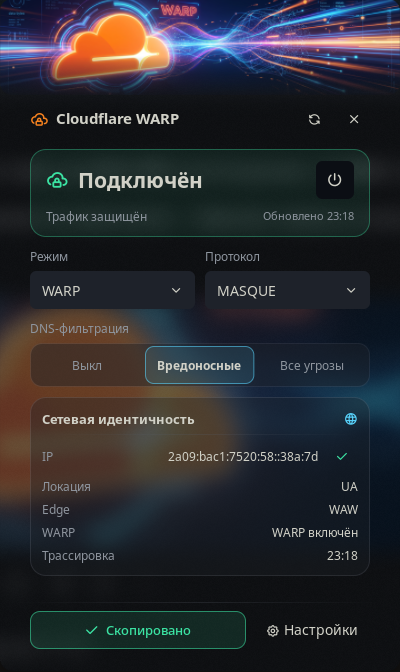
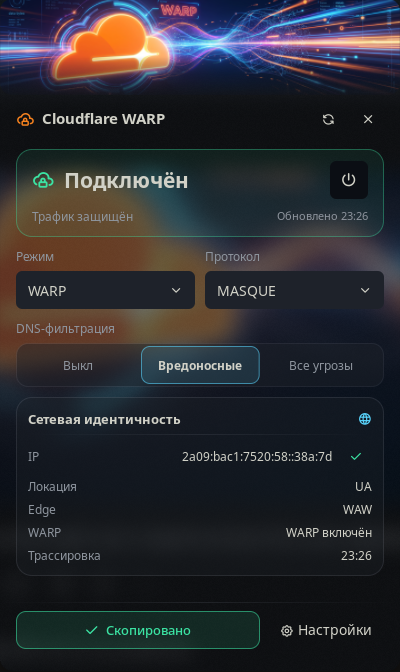
fix(panel): reduce side gutters from 30 to 16 px
The host adds a fixed 14 px inset and the panel added another 16 px, so the
cards were only 340 px wide. The root now cancels the horizontal inset, the
inner 16 px stays as the only side gutter, and the banner keeps its full-bleed
top edge. Vertical rhythm is unchanged; screenshots and docs regenerated.

Phase: 3

diff --git a/docs/DESIGN-PANEL.md b/docs/DESIGN-PANEL.md
@@ -1,7 +1,8 @@
 # DESIGN — панель Cloudflare WARP
 
-**Статус:** `0.4.1` (PATCH, Phase 3). Панель переработана во вторую версию и прошла
-fix round владельца; контракт `warp.status` / `warp.command` и IPC не менялись.
+**Статус:** `0.4.2` (PATCH, Phase 3). Панель переработана во вторую версию, прошла
+fix round владельца и получила уменьшенные боковые поля; контракт
+`warp.status` / `warp.command` и IPC не менялись.
 **Источник истины:** [`cloudflare-warp/panel.luau`](../cloudflare-warp/panel.luau),
 [`specs/phase-3-panel-redesign.md`](../specs/phase-3-panel-redesign.md).
 
@@ -29,8 +30,8 @@ fix round владельца; контракт `warp.status` / `warp.command` и
 ## Карта компоновки
 
 ```
-root column (gap=0, padding=0, align=stretch, flexGrow=1)
-├─ banner-wrap column (height=82, padding=-14 со всех сторон)
+root column (gap=0, paddingH=-14, paddingV=0, align=stretch, flexGrow=1)
+├─ banner-wrap column (height=82, paddingV=-14)
 │   └─ ui.image 400×96, fit=cover, radius=12, opacity по фазе × entrance
 ├─ header row (paddingH=16, paddingV=8, gap=8)
 │   ├─ glyph cloud-lock 18, brand-orange
@@ -60,10 +61,12 @@ root column (gap=0, padding=0, align=stretch, flexGrow=1)
 присутствует. Высота 672 подобрана под самый высокий штатный набор, а `flexGrow=1`
 у content-body прижимает footer к низу, когда остаётся запас.
 
-Баннер выходит за поля хоста: wrapper высотой 82 px получает `padding = -14`, поэтому
-изображение 400×96 начинается в точке (0,0) панели и заканчивается ровно на нижней
-границе wrapper. Радиус изображения 12 совпадает с радиусом панели; нижний alpha-fade
-зашит в PNG. Версия `warp-cli` в панели не показывается, дублирующей кнопки закрытия нет.
+Баннер выходит за поля хоста: root отменяет горизонтальный inset хоста
+(`paddingH = -14`), поэтому единственный боковой отступ — внутренние 16 px, а карточки
+занимают 368 px из 400. Wrapper высотой 82 px получает `paddingV = -14`; изображение
+400×96 начинается в точке (0,0) панели и заканчивается ровно на нижней границе wrapper.
+Радиус изображения 12 совпадает с радиусом панели; нижний alpha-fade зашит в PNG.
+Версия `warp-cli` в панели не показывается, дублирующей кнопки закрытия нет.
 
 ## Фазы и акценты
 
@@ -148,6 +151,8 @@ Hero-акцент интерполируется между фазами, поэ
 | Captions, updated, trace | 11 |
 | Footer feedback text | 13 |
 | Glyphs | 18 header, 22 hero, 14 secondary |
+| Side gutters | 16 (root cancels the host's 14 px horizontal inset) |
+| Card / control width | 368 inside the 400 px panel |
 | Header padding | 16 по горизонтали, 8 по вертикали |
 | Content padding | 16 по горизонтали, 6 по вертикали, gap 10 |
 | Hero padding | 16 / 12 |
@@ -191,7 +196,9 @@ Hero-акцент интерполируется между фазами, поэ
   `[plugin_settings] panel_placement` может переопределить placement на лету; на
   dev-машине панель открывается как `attached`.
 - **Padding.** Хост добавляет `Style::panelPadding = 14` со всех сторон. Отрицательный
-  padding не клампится и позволяет баннеру выйти на край панели.
+  padding не клампится: root отменяет горизонтальный inset (`paddingH = -14`), а
+  banner-wrapper — вертикальный сверху (`paddingV = -14`), поэтому баннер выходит на
+  край панели, а боковой отступ равен 16 px.
 - **Scrollbar.** Хост рисует полосу прокрутки всегда, когда присутствует `ui.scroll`,
   даже если контент помещается; поэтому панель от scroll-контейнера отказалась.
 - **Frame ticks.** `panel.setNeedsFrameTick(true)` запрашивает кадры, `onFrameTick`

diff --git a/STATE.md b/STATE.md
@@ -10,13 +10,13 @@
 
 | Поле | Значение |
 |------|----------|
-| **Plugin version** | `0.4.1` (tag `v0.4.1`, merge `cb14a14`) |
-| **Roadmap phase** | Phase 3 — Panel **done** (0.4.0 + redesign v2 0.4.1 + owner fix round) |
-| **Branch** | `main` |
+| **Plugin version** | `0.4.2` (fix prepared on `fix/panel-padding`; tag pending) |
+| **Roadmap phase** | Phase 3 — Panel **done** (0.4.0 + redesign v2 0.4.1 + padding 0.4.2) |
+| **Branch** | `fix/panel-padding` |
 | **Remote** | https://github.com/code-warlord-dev/cloudflare-warp-plugin |
 | **Last merge** | `cb14a14` Merge PR #5 — panel fix round v0.4.1 (origin/main) |
-| **Blockers** | none — K-11 resolved: `plugins list` shows `code-warlord/cloudflare-warp [warpdev] 0.4.1` |
-| **Next action** | Phase 4 — Polish & i18n (v0.5.0) |
+| **Blockers** | none |
+| **Next action** | push branch + PR; merge + tag `v0.4.2`; then Phase 4 |
 
 ---
 
@@ -48,6 +48,10 @@
 | reviewer | Self-review fix round: no state/CLI/network writes, plugin_api 24, no fixture, i18n parity | done | APPROVE; lint 0/0; en/ru 98/98 |
 | qa | Live QA fix round: connected + fixture states, animations, no scrollbar/clipping at 400×672 | done | PASS; QA fixture removed before commit |
 | orchestrator | Docs update fix round + release 0.4.1 | done | PR #5 merged `cb14a14`; tag `v0.4.1` pushed |
+| implementer | Owner padding fix: side gutters 30 → 16 px (root `paddingH = -14`, cards 368 px); vertical rhythm unchanged | done | `fix/panel-padding` |
+| reviewer | Self-review: panel still renderer-only, host-inset math verified live, no QA hooks left | done | APPROVE; lint 0/0 |
+| qa | Live QA: 400×672, 16 px gutters, no clipping/scrollbar; 8 screenshots refreshed | done | PASS; fixture removed before commit |
+| orchestrator | Docs update padding fix + release 0.4.2 | in progress | CHANGELOG/STATE/DESIGN/SPEC/README/spec; push, PR, merge, tag `v0.4.2` |
 
 ---
 
@@ -82,6 +86,8 @@
 - [x] Owner fix round 0.4.1: убран `ui.scroll` и scrollbar, высота по контенту 400×672, full-bleed banner через отрицательный padding, hero 21 px, Families всегда с выбранным Malware, анимации (вход, акцент/баннер, progress, refresh pulse, hover), ширина 400
 - [x] QA fix round: connected + fixture-состояния, анимация connecting, отсутствие scrollbar и обрезания; временная фикстура удалена из `service.luau` до коммита
 - [x] Release 0.4.1: PR #5 merged в `main` (`cb14a14`), tag `v0.4.1` создан и запушен; 8 скриншотов обновлены под 400×672
+- [x] Padding fix 0.4.2: root отменяет горизонтальный host-inset (`paddingH = -14`) → боковые поля 16 px, карточки 368 px; вертикальный ритм не изменён
+- [x] Padding QA: live connected + fixture-состояния, отсутствие clipping/scrollbar на 400×672; 8 скриншотов пересняты, фикстура удалена до коммита
 
 
 ---
@@ -138,6 +144,7 @@
 | 2026-10-20 | Families segments всегда передают fill/border, unselected — `#00000000` | reconciler сохраняет отсутствующие flex-стили → stale cyan |
 | 2026-10-20 | Banner: color/idle PNG с запечённым нижним alpha-fade | у declarative UI нет gradient/overlay primitive |
 | 2026-10-20 | Состояния для скриншотов — временные фикстуры, реальный WARP не мутируется | QA safety: connect/disconnect/set-* не трогали |
+| 2026-10-20 | Боковые поля панели 16 px: root `paddingH = -14` отменяет host-inset | owner: общий padding был слишком большим; 30 px → 16 px, карточки 340 → 368 px; вертикаль без изменений |
 
 ---
 

diff --git a/specs/phase-3-panel-redesign.md b/specs/phase-3-panel-redesign.md
@@ -60,10 +60,11 @@ magick /tmp/hero-idle-base.png /tmp/hero-mask.png -alpha off -compose CopyOpacit
 - Connecting/disconnecting — color asset с `opacity = 0.65`.
 - Исходный JPEG оставить в репозитории (README/соцсети), PNG — UI.
 
-Banner в панели: wrapper-колонка `height = 82` с `padding = -14` со всех сторон и
+Banner в панели: root отменяет горизонтальный host-inset (`paddingH = -14`), а
+banner-wrapper-колонка `height = 82` получает `paddingV = -14` и содержит
 `ui.image({ path = ..., width = 400, height = 96, radius = 12, fit = "cover",
-opacity = <по фазе × entrance> })`. Отрицательный padding компенсирует host-inset
-14 px, поэтому изображение начинается в точке (0,0) панели; нижний fade — из PNG.
+opacity = <по фазе × entrance> })`. Изображение начинается в точке (0,0) панели,
+боковой отступ равен 16 px; нижний fade — из PNG.
 
 ---
 
@@ -75,11 +76,12 @@ Manifest: `width = 400`, `height = 672`, `placement = "floating"`, `position = "
 
 > Решения после live-прогона и fix round владельца: 400×672 вместо 360×700; scroll
 > убран полностью; version caption убран; power — `md`; hero status 21 px, чтобы
-> «Подключение…» помещалось; ошибка свёрнута в subtitle; footer прижат `flexGrow`.
+> «Подключение…» помещалось; ошибка свёрнута в subtitle; footer прижат `flexGrow`;
+> боковые поля 16 px — root отменяет host-inset 14 px (`paddingH = -14`).
 
 ```
-root column (gap=0, padding=0, align="stretch", flexGrow=1)
-├─ banner-wrap column (height=82, padding=-14)
+root column (gap=0, paddingH=-14, paddingV=0, align="stretch", flexGrow=1)
+├─ banner-wrap column (height=82, paddingV=-14)
 │   └─ ui.image (400×96, radius=12)
 ├─ header row (paddingH=16, paddingV=8, align=center, gap=8)
 │   ├─ glyph cloud-lock 18 brand-orange

diff --git a/ROADMAP.md b/ROADMAP.md
@@ -2,7 +2,7 @@
 
 Статус: **Active**
 
-Текущая версия: `0.4.1` (Phase 3, panel redesign v2)
+Текущая версия: `0.4.2` (Phase 3, panel redesign v2)
 
 Целевая первая публичная: `1.0.0`
 
@@ -67,7 +67,7 @@
 
 ---
 
-## Phase 3 — Panel (v0.4.0 → v0.4.1)
+## Phase 3 — Panel (v0.4.0 → v0.4.2)
 
 **Цель:** полноценный UI управления.
 
@@ -79,11 +79,12 @@
 - [x] Floating, 400×672, без scroll-контейнера
 - [x] Panel redesign v2: phase banner, status-first hero + power, Mode/Protocol в две колонки, segmented Families, identity card, Copy IP/Settings footer, honest unknown
 - [x] Owner fix round: full-bleed banner, hero 21 px, Families = Malware default, анимации входа/акцента/progress/refresh/hover, ширина 400
+- [x] Side gutters 16 px: root отменяет host-inset 14 px, карточки 368 px (0.4.2)
 - [x] Live QA connected/disconnected/connecting + 8 screenshots + `docs/DESIGN-PANEL.md`
 
 **DoD:** из панели можно сменить mode/families/protocol и увидеть IP; визуальные состояния подтверждены live.
 
-**Bump:** `0.4.0` (MINOR) + `0.4.1` (PATCH — redesign v2 + owner fix round; структура state/IPC не менялись)
+**Bump:** `0.4.0` (MINOR) + `0.4.1`/`0.4.2` (PATCH — redesign v2, owner fix round и боковые поля; структура state/IPC не менялись)
 
 ---
 

diff --git a/docs/API-NOTES.md b/docs/API-NOTES.md
@@ -326,8 +326,9 @@ noctalia msg plugins source remove warpdev
   или `"fill"`; auto/content-height и runtime `setSize` отсутствуют. Хост добавляет
   `Style::panelPadding = 14` со всех сторон и не даёт его отключить.
 - **Отрицательный padding работает.** `Flex::setPadding` присваивает значение напрямую,
-  layout использует отрицательные инсеты; wrapper с `padding = -14` позволяет баннеру
-  выйти на край панели (проверено live 0.4.1).
+  layout использует отрицательные инсеты; root с `paddingH = -14` отменяет боковой
+  host-inset, а wrapper с `paddingV = -14` позволяет баннеру выйти на верхний край
+  панели (проверено live 0.4.1, повторно 0.4.2).
 - **Frame ticks.** `panel.setNeedsFrameTick(true)` запрашивает кадры; глобальный
   `onFrameTick(deltaMs)` вызывается, пока флаг включён; кадры коалесцируются, тики
   прекращаются при закрытии панели. В idle флаг нужно выключать вручную.

diff --git a/README.md b/README.md
@@ -15,7 +15,7 @@ Runtime-плагин живёт в подкаталоге [`cloudflare-warp/`](.
 | [STATE.md](./STATE.md) | Живой статус (читать первым) |
 | [AGENTS.md](./AGENTS.md) | Оркестратор и субагенты |
 | [docs/API-NOTES.md](./docs/API-NOTES.md) | Проверенные факты о Noctalia 5.3.0 / warp-cli / `plugins lint` |
-| [docs/DESIGN-PANEL.md](./docs/DESIGN-PANEL.md) | Визуальная система и правила панели (0.4.1) |
+| [docs/DESIGN-PANEL.md](./docs/DESIGN-PANEL.md) | Визуальная система и правила панели (0.4.2) |
 | [specs/](./specs/) | Executable specs по фазам |
 | [.agents/skills/](./.agents/skills/) | Skills для агентов |
 | [templates/](./templates/) | Commit / PR / Push |
@@ -42,7 +42,7 @@ Runtime-плагин живёт в подкаталоге [`cloudflare-warp/`](.
 
 ## Статус
 
-См. [STATE.md](./STATE.md). Сейчас: **0.4.1**, Phase 3 завершена — сервис, bar widget,
+См. [STATE.md](./STATE.md). Сейчас: **0.4.2**, Phase 3 завершена — сервис, bar widget,
 Control Center shortcut и панель работают. Следующая — Phase 4 (polish, full i18n,
 error UX, README).
 

diff --git a/docs/SPEC.md b/docs/SPEC.md
@@ -475,7 +475,7 @@ barWidget.setVisible(true)
 
 ```
 ui.column
-  ├─ banner-wrap (padding = -14) → image 400×96 (phase asset, bottom alpha fade)
+  ├─ banner-wrap (paddingV = -14) → image 400×96 (phase asset, bottom alpha fade)
   ├─ header: cloud glyph, title, Refresh, Close
   ├─ content-body (flexGrow=1, без ui.scroll)
   │   ├─ hero: status + subtitle + «Обновлено HH:MM» + power (+ progress в transition)
@@ -505,6 +505,10 @@ ui.column
 - Размер: `width = 400`, `height = 672` (host-owned, задаётся в манифесте; изменения
   применяются после disable/enable плагина). Scroll-контейнер не используется: хост
   рисует scrollbar всегда, поэтому высота подобрана под штатные состояния.
+- Отступы: root отменяет горизонтальный host-inset (`paddingH = -14`), поэтому
+  единственный боковой отступ — внутренние 16 px, а карточки занимают 368 px.
+  Banner-wrapper отменяет только верхний inset (`paddingV = -14`); вертикальный
+  ритм контента не меняется.
 
 ---
 

diff --git a/cloudflare-warp/README.md b/cloudflare-warp/README.md
@@ -77,9 +77,10 @@ the height is tuned to the tallest regular state and the footer is anchored
 with `flexGrow`. Layout, top to bottom:
 
 - **Banner** — full-bleed 400×96 phase image with a bottom alpha fade; the
-  wrapper cancels the host's 14 px inset with negative padding and the image
-  radius matches the panel. Full colour for connected, colour at 0.65 opacity
-  while connecting/disconnecting, and a dimmed idle image for
+  root cancels the host's 14 px horizontal inset so the only side gutter is
+  16 px (cards are 368 px wide), and the banner wrapper pulls the top inset;
+  the image radius matches the panel. Full colour for connected, colour at
+  0.65 opacity while connecting/disconnecting, and a dimmed idle image for
   disconnected/error/unregistered/unknown;
 - **Header** — cloud glyph, "Cloudflare WARP", Refresh (with a short loader)
   and Close; there is no duplicate close control;

diff --git a/VERSIONING.md b/VERSIONING.md
@@ -50,7 +50,8 @@ Pre-1.0 (`0.x.y`):
 | 0.2.0 | Phase 1 | Service core: poll, state, IPC toggle/connect | released |
 | 0.3.0 | Phase 2 | Bar widget + Control Center shortcut | released |
 | 0.4.0 | Phase 3 | Full panel UI | released |
-| 0.4.1 | Phase 3 | Panel redesign v2 (banner/hero/segmented/identity), no state/IPC change | current (branch, tag pending) |
+| 0.4.1 | Phase 3 | Panel redesign v2 (banner/hero/segmented/identity), no state/IPC change | released |
+| 0.4.2 | Phase 3 | Panel side gutters 30 → 16 px, no state/IPC change | current (branch, tag pending) |
 | 0.5.0 | Phase 4 | Polish, full i18n, error UX, README | planned |
 | 1.0.0 | Phase 5 | Public release / community-plugins | planned |
 | 1.x.y | Post-1.0 | Backlog features | backlog |

diff --git a/CHANGELOG.md b/CHANGELOG.md
@@ -7,6 +7,16 @@ Versioning follows [SemVer](https://semver.org/) — see [VERSIONING.md](./VERSI
 
 ---
 
+## [0.4.2] - 2026-10-20
+
+### Changed
+- Panel side gutters reduced from 30 px to 16 px: the root now cancels the host's fixed
+  14 px horizontal inset, leaving the inner 16 px as the only side padding. Cards,
+  selects and the footer grew from 340 px to 368 px inside the 400 px panel. The banner
+  keeps its full-bleed top treatment and the vertical rhythm is unchanged.
+
+---
+
 ## [0.4.1] - 2026-10-20
 
 ### Added
